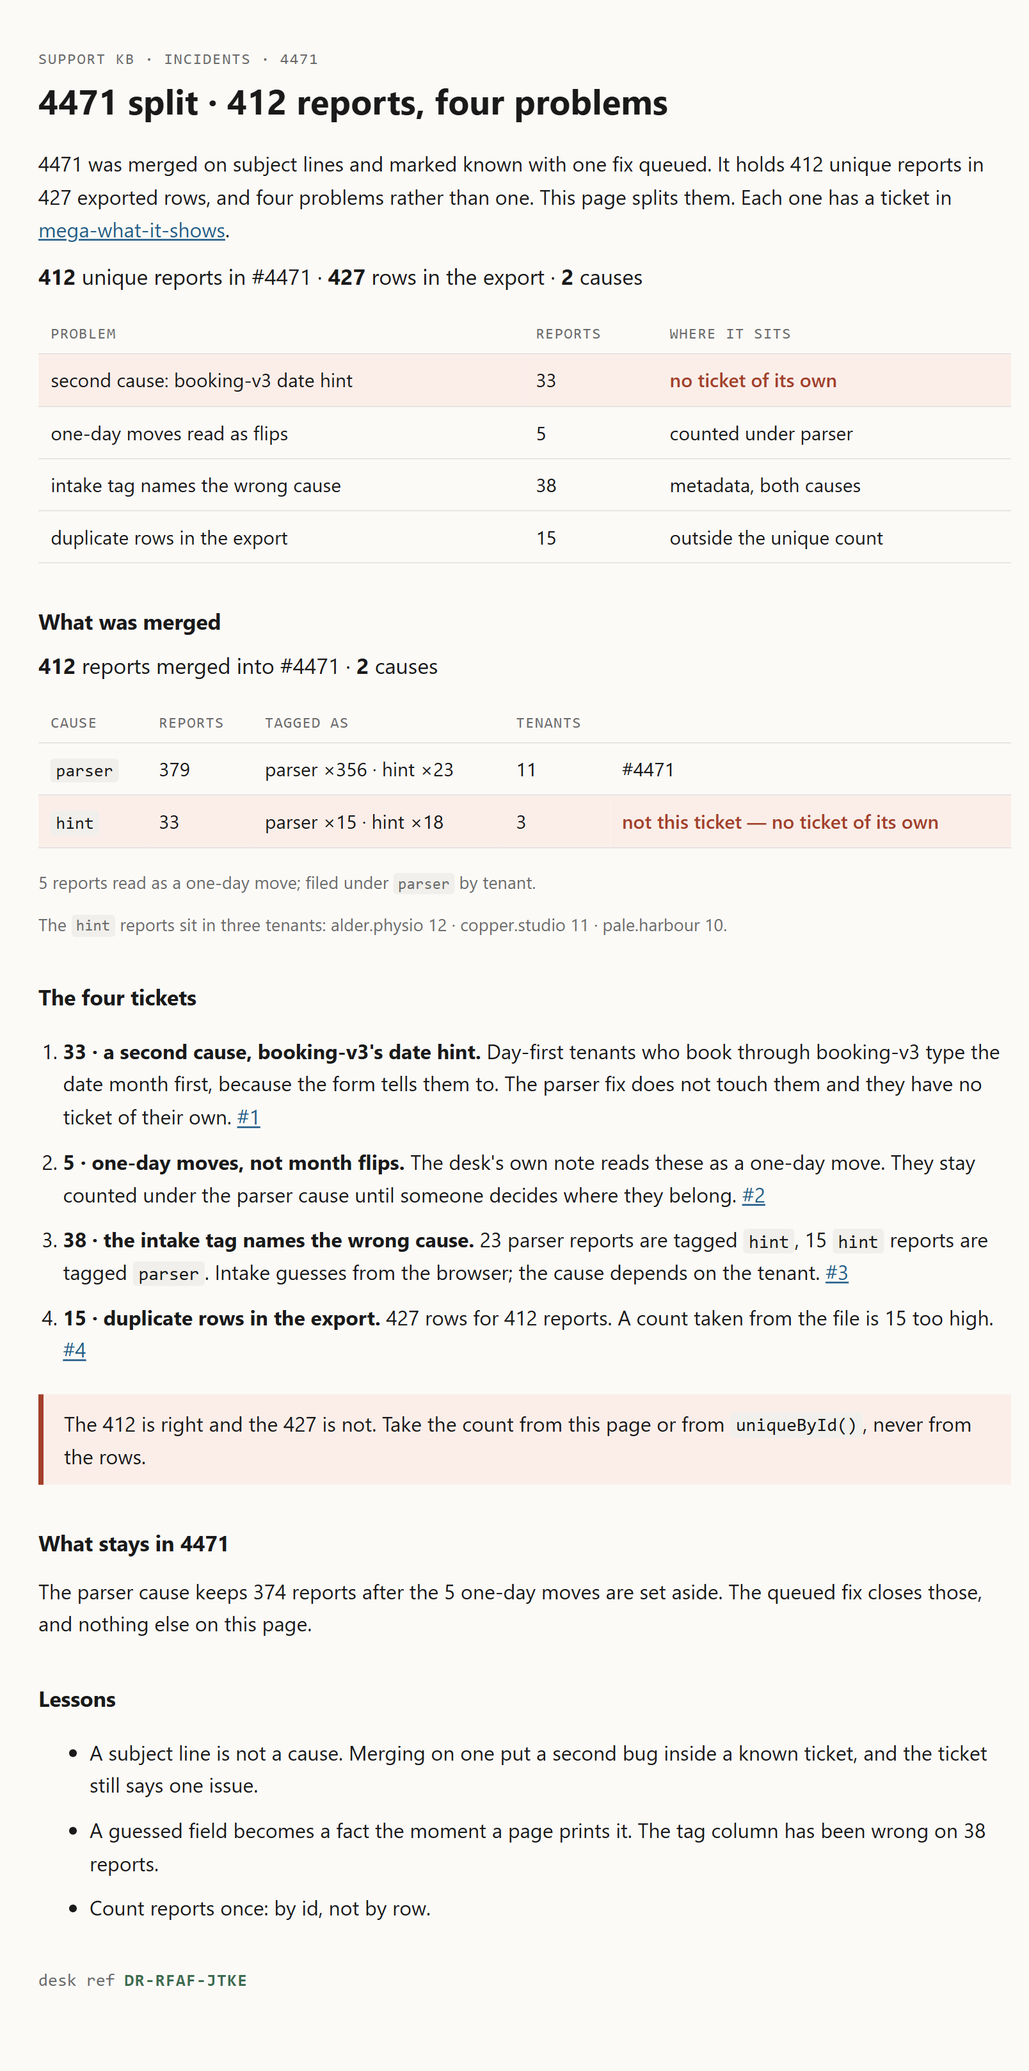
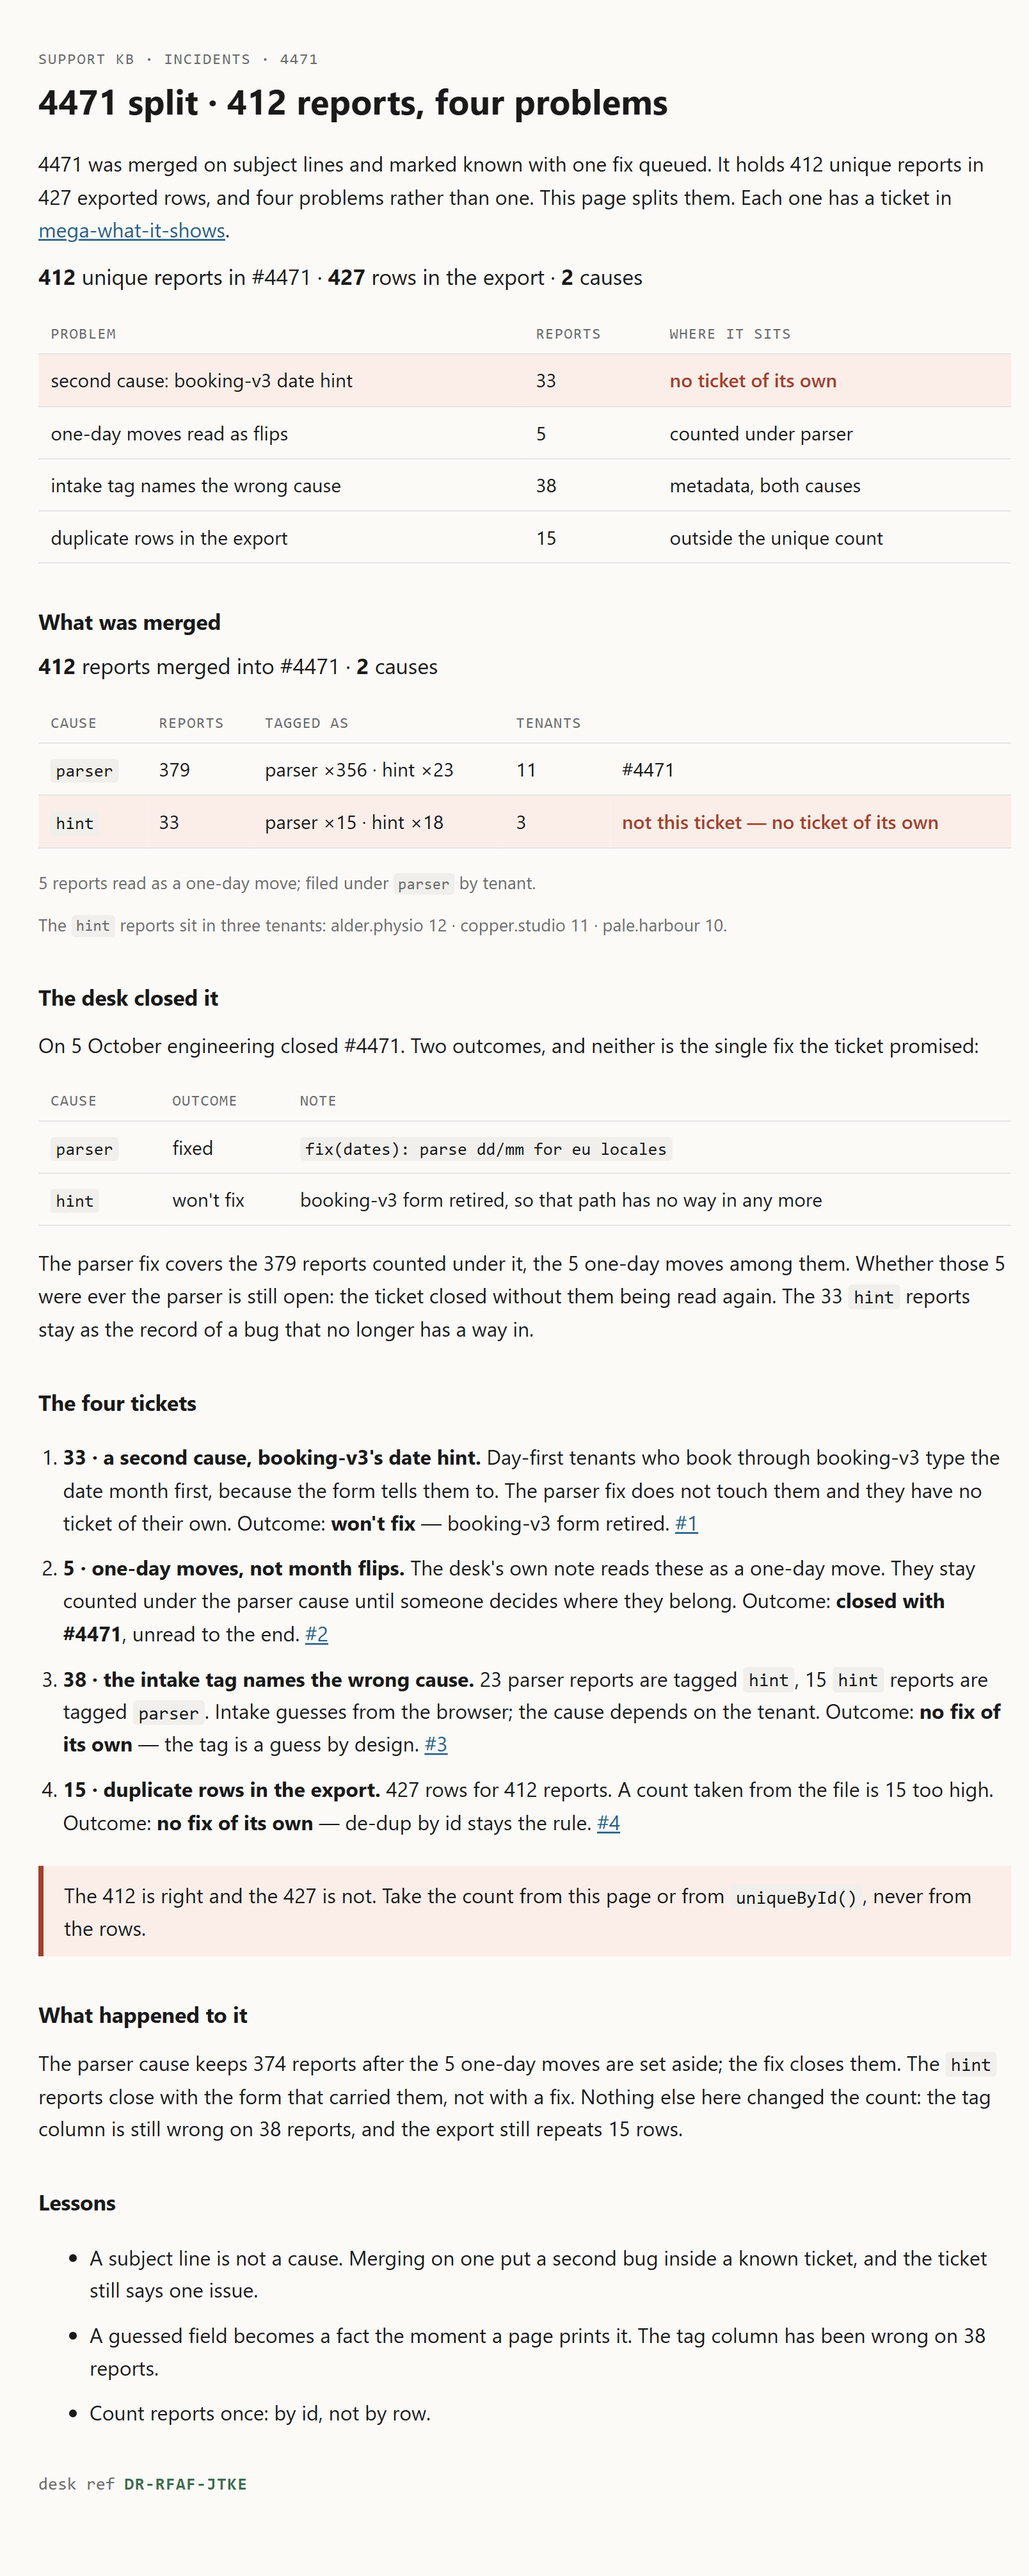
page: record the desk's 5 Oct close of #4471
parser fixed (dd/mm for eu locales), hint won't fix (booking-v3 retired).
Page status closed; each ticket carries its outcome.

diff --git a/page/4471-split.html b/page/4471-split.html
@@ -62,29 +62,49 @@ one has a ticket in <a href="https://github.com/t-works/mega-what-it-shows/issue
 <p style="color:var(--muted);font-size:.85rem">5 reports read as a one-day move; filed under <code>parser</code> by tenant.</p>
 <p style="color:var(--muted);font-size:.85rem">The <code>hint</code> reports sit in three tenants: alder.physio 12 · copper.studio 11 · pale.harbour 10.</p>
 
+<h2>The desk closed it</h2>
+<p>On 5 October engineering closed #4471. Two outcomes, and neither is the single fix the ticket
+promised:</p>
+<table>
+  <thead><tr><th>cause</th><th>outcome</th><th>note</th></tr></thead>
+  <tbody>
+    <tr><td><code>parser</code></td><td>fixed</td><td><code>fix(dates): parse dd/mm for eu locales</code></td></tr>
+    <tr><td><code>hint</code></td><td>won't fix</td><td>booking-v3 form retired, so that path has no way in any more</td></tr>
+  </tbody>
+</table>
+<p>The parser fix covers the 379 reports counted under it, the 5 one-day moves among them.
+Whether those 5 were ever the parser is still open: the ticket closed without them being read
+again. The 33 <code>hint</code> reports stay as the record of a bug that no longer has a way in.</p>
+
 <h2>The four tickets</h2>
 <ol>
   <li><b>33 · a second cause, booking-v3's date hint.</b> Day-first tenants who book
     through booking-v3 type the date month first, because the form tells them to. The parser fix
     does not touch them and they have no ticket of their own.
+    Outcome: <b>won't fix</b> — booking-v3 form retired.
     <a href="https://github.com/t-works/mega-what-it-shows/issues/1">#1</a></li>
   <li><b>5 · one-day moves, not month flips.</b> The desk's own note reads these as a
     one-day move. They stay counted under the parser cause until someone decides where they
-    belong. <a href="https://github.com/t-works/mega-what-it-shows/issues/2">#2</a></li>
+    belong. Outcome: <b>closed with #4471</b>, unread to the end.
+    <a href="https://github.com/t-works/mega-what-it-shows/issues/2">#2</a></li>
   <li><b>38 · the intake tag names the wrong cause.</b> 23 parser
     reports are tagged <code>hint</code>, 15 <code>hint</code> reports are tagged
     <code>parser</code>. Intake guesses from the browser; the cause depends on the tenant.
+    Outcome: <b>no fix of its own</b> — the tag is a guess by design.
     <a href="https://github.com/t-works/mega-what-it-shows/issues/3">#3</a></li>
   <li><b>15 · duplicate rows in the export.</b> 427 rows for 412 reports. A
-    count taken from the file is 15 too high. <a href="https://github.com/t-works/mega-what-it-shows/issues/4">#4</a></li>
+    count taken from the file is 15 too high. Outcome: <b>no fix of its own</b> — de-dup by id stays the rule.
+    <a href="https://github.com/t-works/mega-what-it-shows/issues/4">#4</a></li>
 </ol>
 
 <aside class="warn">The 412 is right and the 427 is not. Take the count from this
 page or from <code>uniqueById()</code>, never from the rows.</aside>
 
-<h2>What stays in 4471</h2>
+<h2>What happened to it</h2>
 <p>The parser cause keeps 374 reports after the 5 one-day moves are
-set aside. The queued fix closes those, and nothing else on this page.</p>
+set aside; the fix closes them. The <code>hint</code> reports close with the form that carried
+them, not with a fix. Nothing else here changed the count: the tag column is still wrong on
+38 reports, and the export still repeats 15 rows.</p>
 
 <h2>Lessons</h2>
 <ul>

diff --git a/README.md b/README.md
@@ -7,6 +7,7 @@ page the desk reads.
 ## The split
 
 | Problem | Reports | Issue |
+|---|---|---|---|
 |---|---|---|
 | A second cause inside the ticket: booking-v3's `MM/DD` hint on day-first tenants | 33 | [#1](../../issues/1) |
 | One-day moves inside the flip count, from the desk's own note | 5 | [#2](../../issues/2) |
@@ -14,6 +15,12 @@ page the desk reads.
 | Duplicate rows in the export: 427 rows for 412 reports | 15 | [#4](../../issues/4) |
 
 The parser cause keeps 379 reports, 374 of them after the 5 one-day moves are set aside.
+
+## Outcome
+
+The desk closed #4471 on 5 October: `parser` **fixed** (`fix(dates): parse dd/mm for eu locales`),
+`hint` **won't fix** (booking-v3 form retired). The four issues are closed to match; the page
+carries the same resolution.
 
 ## Files
 
